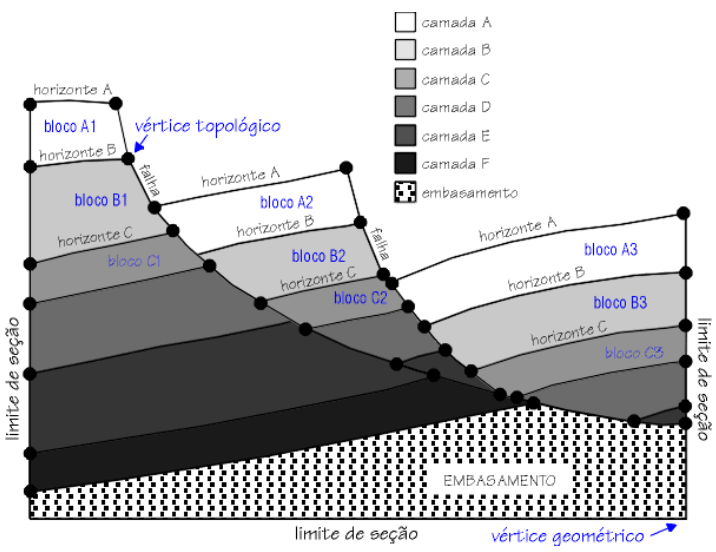
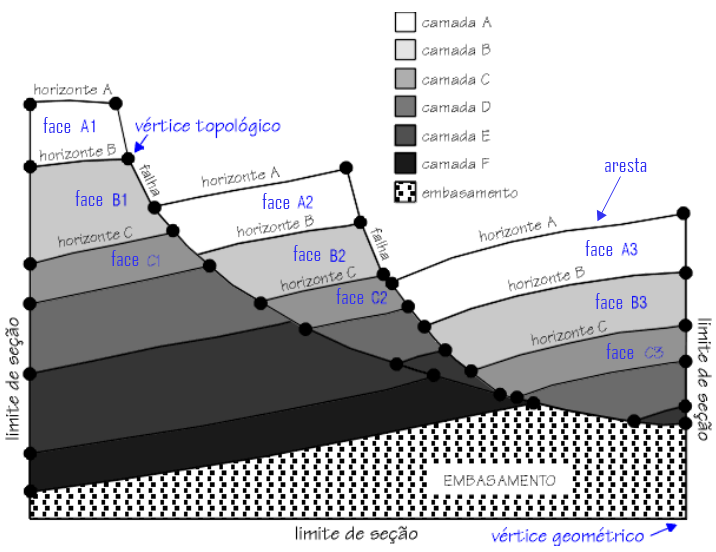
add Pelosi revision

diff --git a/2-chapter-geo.tex b/2-chapter-geo.tex
@@ -38,24 +38,21 @@ Na Figura~\ref{fig-subdivisao-planar} é possível perceber, por exemplo, que as
 
 Segundo Berg~\cite{Berg}, uma subdivisão planar pode ser definida como uma subdivisão do plano através do uso de \textit{arestas}, \textit{vértices} e \textit{faces}. Essas são as entidades topológicas presentes em uma subdivisão planar, a face é como a região descrita anteriormente, delimitada por arestas (segmentos de curva); os vértices são os limites das arestas, sendo um para cada extremidade (podendo ser o mesmo vértice no início e no final da aresta).
 
-A subdivisão planar precisa atender a alguns requisitos em relação às entidades topológicas: não deve haver vértices coincidentes; arestas só podem se cruzar em um vértice e faces também só se cruzam ou em um vértice, ou em uma aresta. Em outras palavras, não deve existir sobreposição de elementos topológicos. 
+A subdivisão planar precisa atender a alguns requisitos em relação às entidades topológicas: não deve haver vértices coincidentes; arestas só podem se cruzar em um vértice e faces também só se cruzam ou em um vértice, ou em uma aresta. Em outras palavras, não deve existir sobreposição de elementos topológicos.
 
-No entanto, há ainda um último componente topológico: o \textit{loop} ou \textit{laço} que é, de forma sucinta, um subconjunto conexo e ordenado de arestas. Com essa definição, a \textit{face} pode ser interpretada como uma união de laços, um deles sendo externo (delimitando a fronteira externa da face) e zero ou mais internos.
-
-Em suma, a subdivisão planar tem os seguintes elementos topológicos:
+Em suma, a subdivisão planar tem os seguintes elementos topológicos~\footnote{Há ainda o elemento \emph{loop} ou laço que auxilia na definição de faces internas, porém para contextualização deste trabalho optou-se por apresentar apenas os elementos vértice, aresta e face.}:
 \renewcommand{\labelitemi}{•}
 \begin{itemize}
   \item \textbf{Vértice}: representa um ponto único dentro do plano.
   \item \textbf{Aresta} (edge): segmento de curva com vértices como limites.
-  \item \textbf{Laço} (loop): subconjunto conexo e ordenado de arestas.
   \item \textbf{Face}: região delimitada por um ou mais laços.
 \end{itemize}
 
 \subsection{Modelagem da Subdivisão Planar}
 
-Para modelar a subdivisão planar dentro do Recon é utilizada a biblioteca computacional \textbf{HED} desenvolvida pelo Instituto Tecgraf/PUC-Rio. Ela consiste na implementação de uma estrutura de dados topológicos baseada em arestas, a \textit{Half-Edge}~\cite{HED}, uma das razões para esta escolha são as relações fixas de adjacência que uma aresta apresenta em relação às outras componentes topológicas. Uma aresta sempre é delimitada por dois vértices (distintos ou não) e é adjacente à duas faces.
+Para modelar a subdivisão planar dentro do Recon é utilizada a biblioteca computacional \emph{HED} (Half-EDge) desenvolvida pelo Instituto Tecgraf/PUC-Rio. Ela consiste na implementação de uma estrutura de dados topológicos baseada em arestas, a \textit{Half-Edge}~\cite{HED}, uma das razões para esta escolha são as relações fixas de adjacência que uma aresta apresenta em relação às outras componentes topológicas. Uma aresta sempre é delimitada por dois vértices (distintos ou não) e é adjacente à duas faces.
 
-O HED introduz uma nova entidade que explora bem essa característica denominada \textit{half-edge} ou \textit{semiaresta} que é uma referência ao \quotes{uso} da aresta por uma face. Dessa forma, no HED, cada aresta é formada por duas semiarestas. Cada semiaresta guarda uma referência para uma face e também para um vértice de origem. Isto dá uma orientação para a semiaresta que é usada para indicar o sentido positivo do loop das faces, por exemplo.
+O HED introduz uma nova entidade que explora bem essa característica denominada \textit{half-edge} ou \textit{semiaresta} que é uma referência ao \quotes{uso} da aresta por uma face. Dessa forma, no HED, cada aresta é formada por duas semiarestas. Cada semiaresta guarda uma referência para uma face e também para um vértice de origem. Isto dá uma orientação para a semiaresta que é usada para indicar o sentido positivo da ordem dos vértices das faces, por exemplo.
 
 A estrutura HED tem um aspecto hierárquico de listas duplamente encadeada de elementos topológicos. No nível mais alto está a subdivisão planar, denominada como \textit{HedSolid}, então vêm \textit{HedFace}, \textit{HedLoop}, \textit{HedHalfEdge} e \textit{HedVtx} no nível mais baixo. A representação da aresta, \textit{HedEdge} encontra-se no mesmo nível da \emph{HedHalfEdge}.
 
@@ -107,7 +104,7 @@ A seção geológica é representada como uma subdivisão planar, como já citad
   \end{center}
 \end{figure}
 
-As faces têm um atributo muito importante para o trabalho de restauração, que são as malhas de triângulos. Cada face possui uma malha independente das outras. No Sistema Recon, essa malha é armazenada numa estrutura de dados topológicos chamada \textit{TopS}~\cite{Tops} que trata-se de uma biblioteca computacional voltada para representação de malhas de elementos finitos. A Figura~\ref{fig-recon-3} exibe a mesma seção, mas com adição das malhas das faces.
+As faces têm um atributo muito importante para o trabalho de restauração, que são as malhas de triângulos. Cada face possui uma malha independente das outras. No Sistema Recon, essa malha é armazenada numa estrutura de dados topológicos chamada \textit{TopS} (Topological Data Structure for Mesh Representation)~\cite{Tops} que trata-se de uma biblioteca computacional voltada para representação de malhas de elementos finitos. A Figura~\ref{fig-recon-3} exibe a mesma seção, mas com adição das malhas das faces.
 
 \begin{figure} [H]
   \begin{center}

diff --git a/1-chapter-intro.tex b/1-chapter-intro.tex
@@ -8,7 +8,7 @@ Dentre os métodos usados na restauração estrutural, um dos mais abordados é 
 
 A aplicação de técnicas de restauração de seções geológicas possibilita inferir uma série de informações como: a quantidade de encurtamento ou extensão uma região, análises sobre a evolução estrutural da área, definição de épocas de atividades das falhas, de movimentação de sal e obter uma estimativa do momento de desenvolvimento de uma armadilha de hidrocarbonetos~\cite{DURANDRIARD-3D, Guedes}. No geral, no método de restauração estrutural as seções transversais são criadas paralelamente à direção principal de transporte tectônico. Entretanto, em modelos com falhas mais complexas ou com transporte em direções diversas, algumas das premissas geológicas adotadas podem não ser atendidas~\cite{GarciaTese}. Em função disso caso não seja bem comportada a movimentação tectônica da região em estudo, será necessário adotar uma modelagem tridimensional para o problema. Portanto, o uso apenas de seções geológicas para restauração estrutural pode não apresentar o que ocorre efetivamente no volume entre seções.
 
-Para se chegar a uma interpretação estrutural mais completa da restauração de um modelo geológico pode-se partir para uma restauração 3D. Nesse caso, todo o modelo geológico precisa passar pelo processo de restauração de maneira completa. Isso envolve acrescentar uma série de restrições, etapas de verificação da consistência do modelo e uma representação discreta mais complexa, como o uso de malhas de elementos finitos~\cite{DURANDRIARD2010441}. Esse tipo de solução requer a definição de modelos geológicos mais complexos, que não estão completamente difundidos na área. Além disso, a restauração 3D requer mais informações e pode envolver um alto custo computacional para se chegar em um bom resultado.
+Para se chegar a uma interpretação estrutural mais completa da restauração de um modelo geológico pode-se partir para uma restauração 3D. Nesse caso, todo o modelo geológico precisa passar pelo processo de restauração de maneira completa. Isso envolve acrescentar uma série de restrições, etapas de verificação da consistência do modelo e uma representação discreta mais complexa, como o uso de malhas de elementos finitos~\cite{DURANDRIARD2010441}. Esse tipo de solução requer a definição de modelos geológicos mais complexos, pois é uma modelagem mais custosa e pouco utilizada devido a simplificações. Além disso, a restauração 3D requer mais informações e pode envolver um alto custo computacional para se chegar em um bom resultado.
 
 \section{Motivação}
 
@@ -36,9 +36,9 @@ Para o volume geológico, a metodologia parte da definição de uma nuvem de pon
 
 As superfícies geológicas sofrem uma deformação com base no deslocamento apresentado pelas linhas presentes nas seções geológicas. A deformação da superfície neste trabalho é feita segundo a ideia de suavização de superfícies apresentada por Botsch \emph{et al.}~\cite{Botsch}. Em especial, a suavização que busca obter superfícies do tipo \emph{fairing} onde se produz formas suavizadas ao máximo.
 
-Isso é alcançado a partir da minimização de uma energia. A depender da ordem dessa energia, um tipo de superfície suavizada é obtida. Em relação à energia de superfície membrana, que é do 2ª ordem, ela minimiza a área da superfície. A energia de placas finas é descrita com uma formulação do 4ª ordem e ao minimizá-la se chega a uma \emph{superfície de mínima curvatura}. A suavização de superfície utilizada neste trabalho busca obter uma \emph{superfície de mínima variação} e é baseada em uma formulação de 6ª ordem~\cite{Botsch}.
+Isso é alcançado a partir da minimização de uma energia. A depender da ordem da equação que caracteriza essa energia, um tipo de superfície suavizada é obtida. Em relação à energia de superfície membrana, que é do 2ª ordem, ela minimiza a área da superfície. A energia de placas finas é descrita com uma formulação do 4ª ordem e ao minimizá-la se chega a uma \emph{superfície de mínima curvatura}. A suavização de superfície utilizada neste trabalho busca obter uma \emph{superfície de mínima variação} e é baseada em uma formulação de 6ª ordem~\cite{Botsch}.
 
-A abordagem que busca uma superfície de mínima curvatura (4ª ordem) é base do método de interpolação suavizada discreta (\emph{discrete smooth interpolation})~\cite{DSI} usada na modelagem geométrica de superfícies geológicas complexas do sistema GOCAD~\cite{GOCAD}.
+A abordagem que busca uma superfície de mínima curvatura (4ª ordem) é base do método de interpolação suavizada discreta (\emph{discrete smooth interpolation})~\cite{DSI} usada na modelagem geométrica de superfícies geológicas complexas do sistema SKUA-GOCAD~\cite{GOCAD}.
 
 A implementação computacional deste trabalho foi realizado no Sistema Recon MS~\cite{ReconTecgraf}, utilizado diretamente na indústria de óleo e gás, mais especificamente na PETROBRAS no setor de extração, fornecendo ferramentas para restauração de seções geológicas, entre outros recursos relacionados.
 

diff --git a/4-chapter-map-surf.tex b/4-chapter-map-surf.tex
@@ -94,6 +94,15 @@ A metodologia mostrada anteriormente é capaz de realizar a deformação de supe
 
 Importante salientar que o ideal é que após a seção ter sido criada ocorra o mínimo de edição inicial nas linhas geradas. Isso é importante pois quanto melhor definida esteja a seção após o fatiamento (item~\ref{item-section-creation}), mais coerente com as superfícies tridimensionais estará o modelo como um todo. Edições nas linhas são comuns de acontecerem para que seja possível realizar a restauração da seção, entretanto, em caso de edições maiores ocorrerá o descasamento entre seção e superfícies e, nesta etapa, poderão haver incongruências.
 
+A fim de facilitar o entendimento do processo geral para realizar o mapeamento de superfícies de um modelo geológico, é apresentado na Figura~\ref{fig-surface-mapping-workflow} um fluxograma com os passos necessários. Esses passos são explicados nas subseções a seguir.
+
+\begin{figure} [H]
+  \begin{center}
+    \includegraphics[width=\textwidth]{images/fig-surface-mapping-workflow}
+    \caption{Fluxo de trabalho para executar o mapeamento de superfícies.}\label{fig-surface-mapping-workflow}
+  \end{center}
+\end{figure}
+
 \subsection{\textit{LMModels}}\label{lmmodels-surface-map}
 
 O objetivo desta subseção é mostrar como obter informação de deslocamento dos horizontes entre etapas de restauração de uma seção geológica a partir de \textit{LMModels}. O deslocamento de pontos de horizonte é o dado principal vindo das seções para o mapeamento de deformações de horizontes, uma vez que as seções geológicas são cortes transversais planos de um conjunto de superfícies tridimensionais.

diff --git a/5-chapter-map-vol.tex b/5-chapter-map-vol.tex
@@ -141,6 +141,15 @@ O uso desse procedimento dentro do Sistema Recon para realizar o mapeamento do v
 
 Após isso, esse conjunto de informações é passado ao \emph{deformador de volume} que é a implementação computacional da metodologia apresentada anteriormente. O deformador de volume está presente na biblioteca \emph{MGeo Deformer}~\cite{Muller}.
 
+Em síntese, o fluxo de trabalho para realizar o mapeamento do volume de um modelo geológico é apresentado na Figura~\ref{fig-volume-mapping-workflow} a seguir:
+
+\begin{figure} [H]
+  \begin{center}
+    \includegraphics[width=\textwidth]{images/fig-volume-mapping-workflow}
+    \caption{Fluxo de trabalho para executar o mapeamento do volume.}\label{fig-volume-mapping-workflow}
+  \end{center}
+\end{figure}
+
 \subsection{Lista de falhas e \emph{EtapasMS}}
 
 Assim como no mapeamento de superfícies, é preciso que o modelo esteja com a restauração das seções já finalizadas com \emph{EtapasMS} também prontas. Além disso, caso tenha sido feito o mapeamento de superfícies, é possível extrair dados desse mapeamento e assim ter ainda mais pontos contribuindo para a movimentação do volume\footnote{É possível realizar o mapeamento de superfícies em paralelo com o volume, bastando realizar a cada passo um e outro alternadamente.}.
